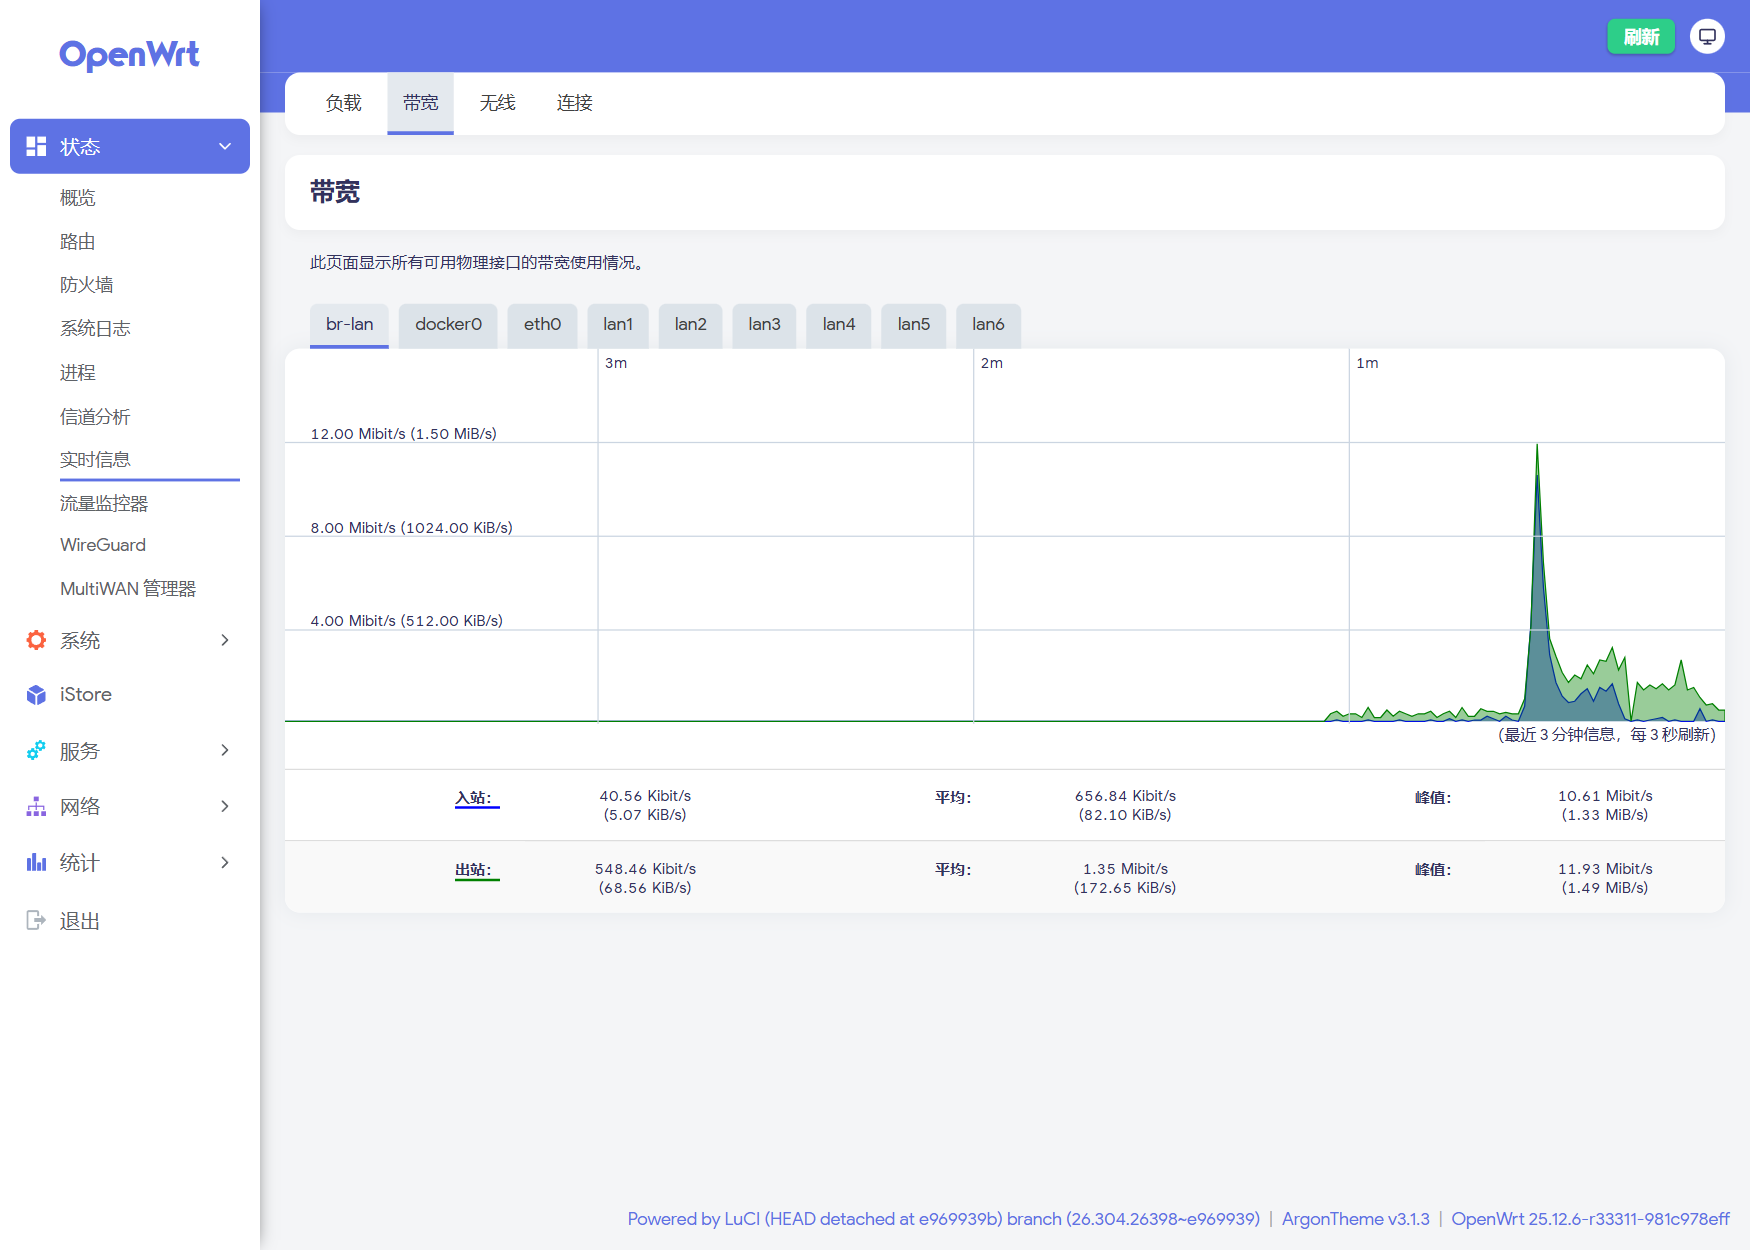
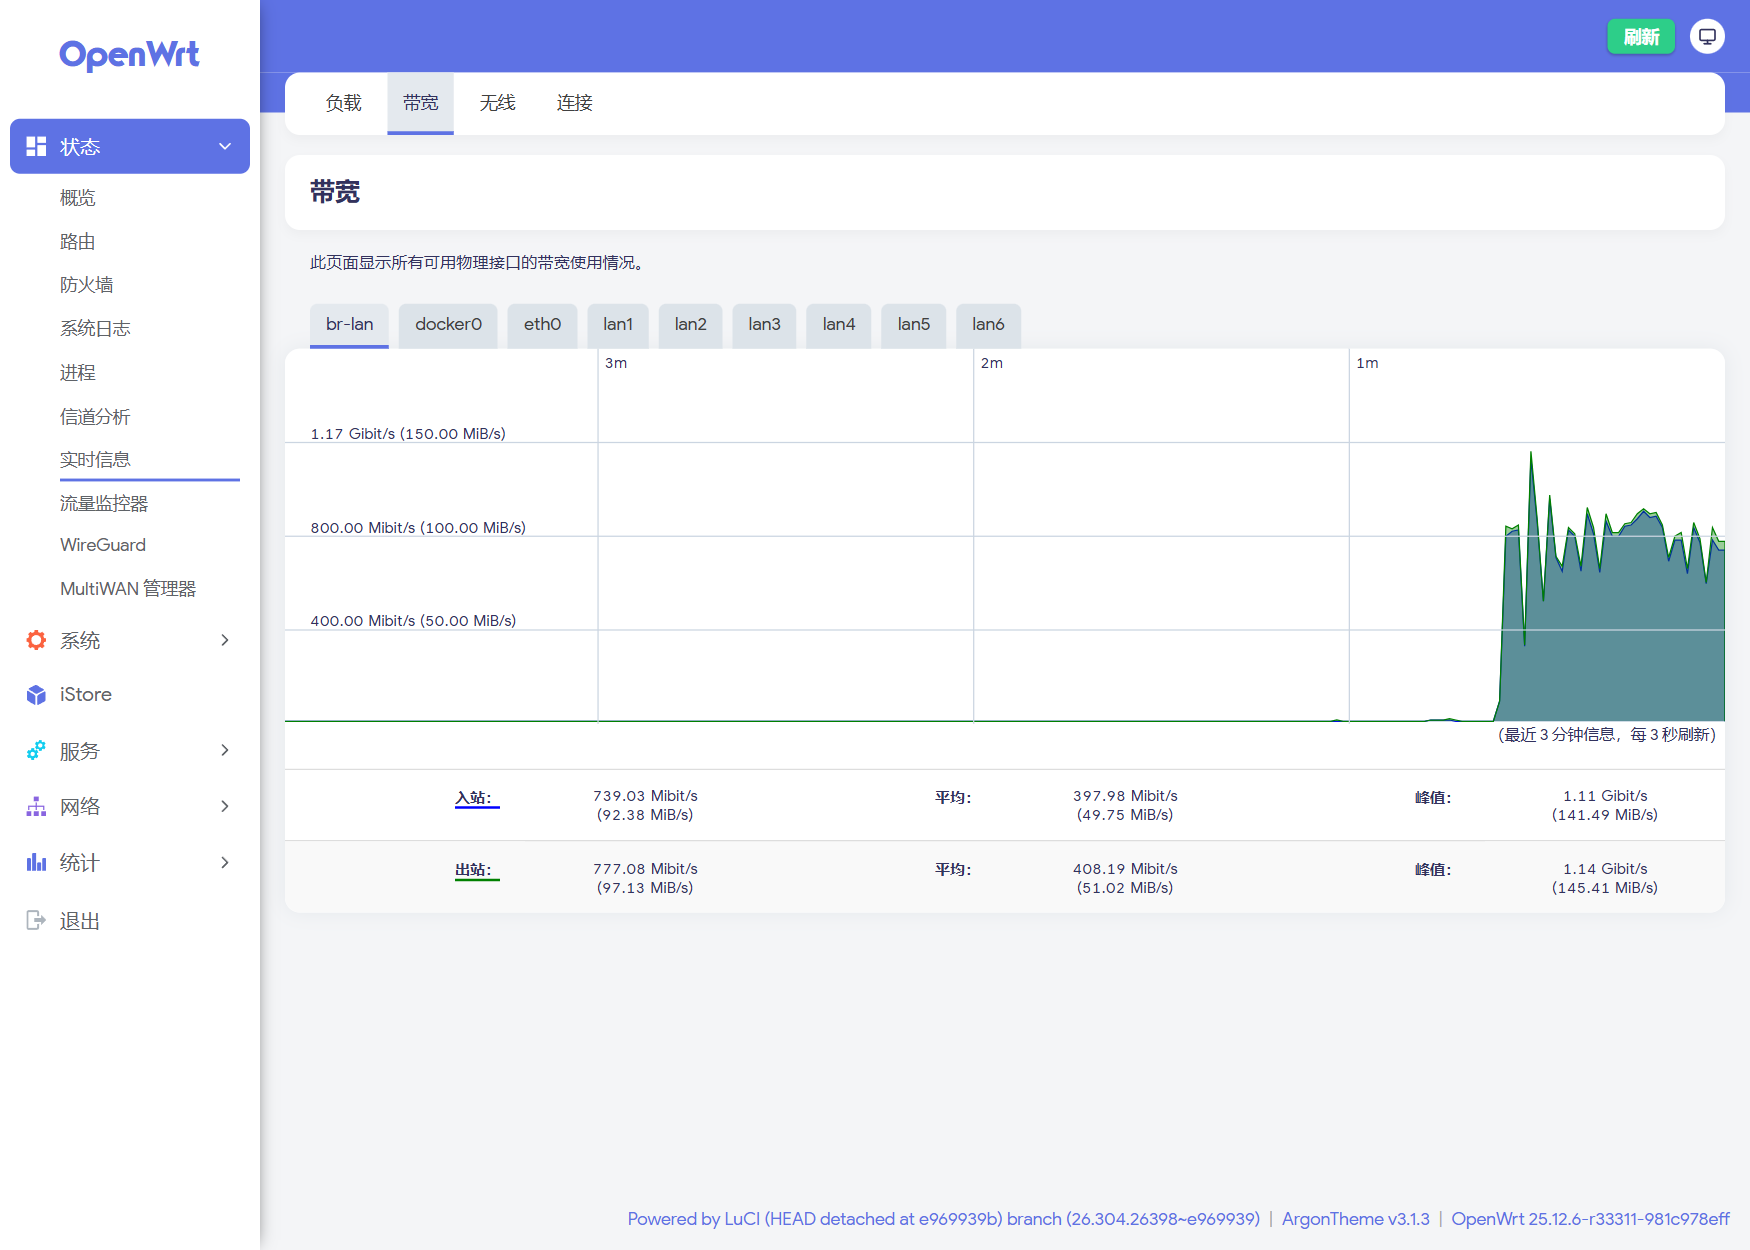
docs: realtime screenshot with the gigabit link saturated

diff --git a/README.en.md b/README.en.md
@@ -14,7 +14,7 @@ A full-source OpenWrt image for the **VMware SD-WAN Edge 610** (same hardware as
 | --- | --- |
 | ![Status overview](docs/screenshots/01-overview.png) | ![Network interfaces](docs/screenshots/02-network.png) |
 
-| OpenClash | Realtime traffic |
+| OpenClash | Realtime traffic (gigabit saturated) |
 | --- | --- |
 | ![OpenClash](docs/screenshots/03-openclash.png) | ![Realtime traffic](docs/screenshots/04-realtime.png) |
 

diff --git a/README.md b/README.md
@@ -14,7 +14,7 @@
 | --- | --- |
 | ![状态概览](docs/screenshots/01-overview.png) | ![网络接口](docs/screenshots/02-network.png) |
 
-| OpenClash | 实时流量 |
+| OpenClash | 实时流量（千兆打满） |
 | --- | --- |
 | ![OpenClash](docs/screenshots/03-openclash.png) | ![实时流量](docs/screenshots/04-realtime.png) |
 
